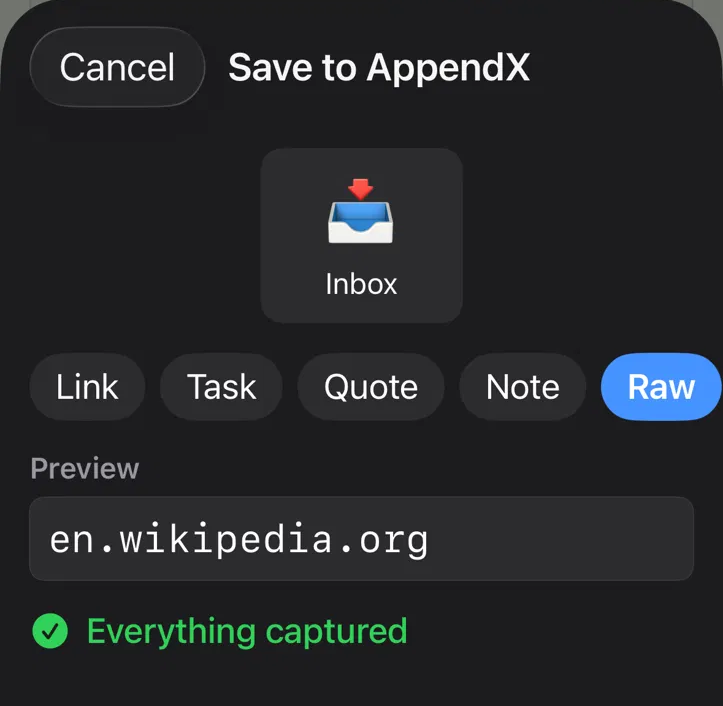
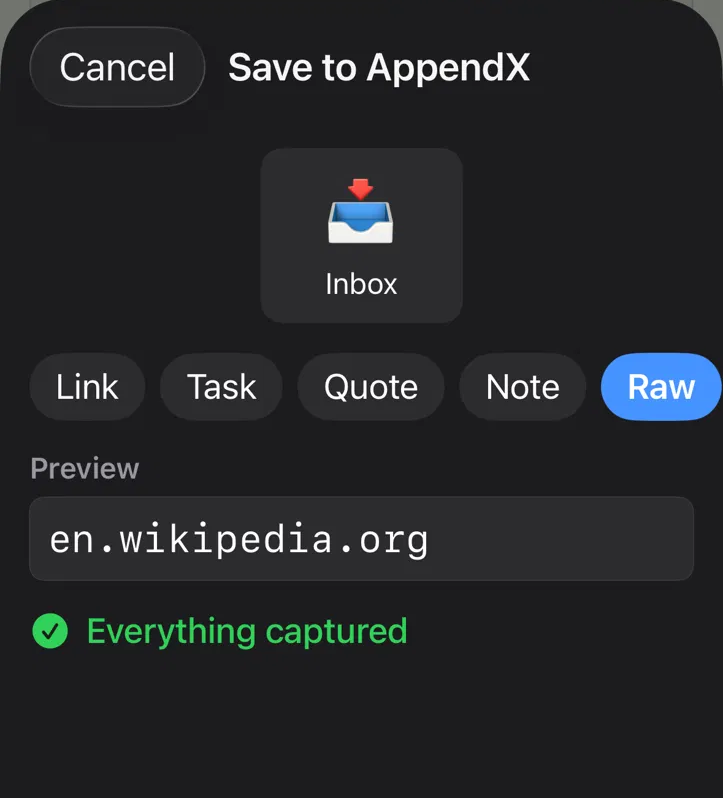
adding caption support to galleries, fixing heights of screenshots

diff --git a/src/content/blog/making-appendx.md b/src/content/blog/making-appendx.md
@@ -2,7 +2,7 @@
 title: 'Making AppendX'
 description: 'Why and How I built my iOS App, AppendX'
 pubDate: '03 Aug 2026'
-draft: false
+draft: true
 heroImage: '/images/AppendX-sketch.jpg'
 heroAlt: 'My initial design sketch for the AppendX icon'
 ---
@@ -116,9 +116,9 @@ What they hand over instead is inconsistent in ways I wasn't prepared for. Shari
 
 ![A screenshot of the AppendX debug view](/images/making-appendx-ss3.png 'AppendX debug view showing various Attachment payloads')
 
-I already had a debug view — an `#if DEBUG` screen I'd been using since early on to see what came through the share extension. That's how I collected the corpus in the first place: long-press the sheet, dump everything, copy it out, move to the next app.
+I already had a debug view — an `#if DEBUG` screen I'd been using since early on to see what came through the share extension. That's how I collected the corpus in the first place: long-press the sheet, dump everything, copy it out, move to the next app. Fifteen of them.
 
-That corpus became the normalization layer: a short pipeline that promotes a URL out of a text field when an app puts it in the wrong place, decodes the Apple News parameter, strips tracking junk, and generally tries to turn "whatever this app felt like sending" into "the thing the user meant to save." It also became a regression suite. Every time I changed the extraction logic, I re-ran all twenty-five and diffed the results.
+That corpus became the normalization layer: a short pipeline that promotes a URL out of a text field when an app puts it in the wrong place, decodes the Apple News parameter, strips tracking junk, and generally tries to turn "whatever this app felt like sending" into "the thing the user meant to save." It also became a regression suite. Every time I changed the extraction logic, I re-ran all fifteen and diffed the results.
 
 ### The Finding That Was My Own Bug
 
@@ -128,13 +128,13 @@ And in the course of writing it — re-testing to verify my claims — I found t
 
 I'd written up that a dozen apps were sending their own hostname where a page title belongs. Wikipedia handing me en.wikipedia.org. Bluesky handing me bsky.app. It was a good finding. It was also entirely my fault: when an app sent no title at all, my own normalization was filling the gap with the URL's hostname. The apps weren't sending junk. They were sending nothing, and I was manufacturing the junk myself.
 
-The problem was that the debug view showed me my own parsed output and presented it as though it were what the app had sent. There was no line between "iOS handed me this" and "my code decided this." Twenty-five captures, all filtered through a lens I couldn't see. The fix was to stop trusting my own output. I rebuilt the debug view to print two labeled sections — RAW, exactly what the app provided, and NORMALIZED, what my code did with it — and to print empty fields explicitly rather than omitting them. Absence is a finding. Omitting it is how I spent a week believing something that wasn't true.
+The problem was that the debug view showed me my own parsed output and presented it as though it were what the app had sent. There was no line between "iOS handed me this" and "my code decided this." Fifteen captures, all filtered through a lens I couldn't see. The fix was to stop trusting my own output. I rebuilt the debug view to print two labeled sections — RAW, exactly what the app provided, and NORMALIZED, what my code did with it — and to print empty fields explicitly rather than omitting them. Absence is a finding. Omitting it is how I spent a week believing something that wasn't true.
 
 ![A screenshot of the AppendX debug view](/images/making-appendx-ss2.png 'AppendX debug view showing nil title')
 
 Re-running the corpus against the new dump turned up four more bugs. Some were my assumptions. A couple were places where Claude Code had confidently traced the Apple News parsing logic and gotten it wrong — twice, with the same case, which is its own lesson: the trace is not the verification. It also disproved two of my seven normalization rules, which I deleted. The pipeline that shipped has five steps.
 
-You can read the whole expedition in [What iOS Shares](/blog/what-ios-shares).
+You can read the whole sharing expedition in [What iOS Shares](/blog/what-ios-shares).
 
 ### The UI That Lied
 
@@ -149,7 +149,7 @@ Then I shared a Wikipedia article to a target using the raw format and watched i
 ![A screenshot of the AppendX share sheet](/images/making-appendx-ss5.png 'AppendX telling you that some data will be lost.')
 :::
 
-The logic was reasonable and wrong. It checked whether the template's tokens had values — not whether all the data I'd received actually made it into the output. So a template that didn't reference the URL at all reported success, because nothing it asked for was missing. It was answering the wrong question with total confidence.
+The logic was reasonable, but wrong. It checked whether the template's tokens had values — not whether all the data I'd received actually made it into the output. So a template that didn't reference the URL at all reported success, because nothing it asked for was missing. It was answering the wrong question with total confidence.
 
 For an app whose entire pitch is "never lose data," a UI that lies about losing data is worse than one that crashes. A crash you notice.
 
@@ -163,14 +163,14 @@ There's a pattern here I keep running into. The debug view told me what it thoug
 
 Initially, I designed several different means of output in your markdown files: link, task, quote, note, and raw. Further, each of these types could be customized by the user.
 
-Then, through using this on my phone every day, I realized that the shape of what is being captured was much simpler: a _list_, or a _block_. Then further, for a List you may want a checkbox, or a date. For a block, you might want separators between, and a date.
+Then, through using this on my phone every day, I realized that the shape of what is being captured was much simpler: a _list_, or a _block_. Then further, for a _list_ you may want a checkbox, or a date. For a _block,_ you might want separators between, and a date.
 
 :::gallery
 ![A screenshot of the AppendX configuration UI](/images/making-appendx-ss6.png 'Configuration options for a List-type capture')
 ![A screenshot of the AppendX configuration UI](/images/making-appendx-ss7.png 'Configuration options for a Block-type capture')
 :::
 
-These simplified options actually retained most of the power that was available initially, but they broke down the decision making into steps. The user wasn't left staring at a list of tokens to insert into a template, they are making a series of simplified decisions. I don't think I could have arrived at this vision without having used the app and iterated upon my initial idea. (side note: this is why you shouldn't rush the 'beta' period!)
+These simplified options actually retained most of the power that was available initially, but they broke down the decision making into steps. The user wasn't left staring at a list of tokens to insert into a template, they are making a series of simplified decisions. I don't think I could have arrived at this vision without having used the app and iterated upon my initial idea.
 
 #### Helping With Emojis
 
@@ -221,7 +221,7 @@ within a few hours.
 
 ![A screenshot of the AppendX project in Xcode](/images/making-appendx-ss8.png 'AppendX project in Xcode, Distribution view')
 
-App Store Connect is a gauntlet. I had anticipated that there would be more paperwork since my app has a modest, yet non-essential In-App-Purchase "tip-jar" built into it. (Luckily I had already created a business entity with the IRS years back when I was a freelancer.) But the parts that caught me off-guard were procedural things that were hidden all over throughout the interface:
+App Store Connect is a gauntlet. I had anticipated that there would be more paperwork since my app has a modest, yet non-essential In-App-Purchase "tip-jar" built into it. (Luckily I had already created a business entity with the IRS years back when I was a freelancer.) But the parts that caught me off-guard were procedural things that were hidden all over throughout the website:
 
 - age ratings
 - countries of distribution
@@ -234,7 +234,7 @@ That last one really got me. In addition to the screenshots you provide as part 
 
 ### The Icon
 
-:::gallery
+:::gallery[The four native iOS icon modes: Default, Dark, Clear Light, Clear Dark.]
 ![AppendX icon, default](/images/AppendX-iOS-Default-512x512@1x.png)
 ![AppendX icon, dark](/images/AppendX-iOS-Dark-512x512@1x.png)
 ![AppendX icon, clear light](/images/AppendX-iOS-ClearLight-512x512@1x.png)
@@ -251,16 +251,10 @@ If it wasn't obvious already - the X is a variable. The idea of making it only a
 
 Later, when I added the direct input method to the app, I was glad I hadn't chosen 'ShareX.' And when searching for a domain name, finding AppendX.to was perfect. Append _X_ to... anything!
 
-### This Thing Exists Now, and It's Fine
+### What It's Like Now
 
-Having AppendX on my devices feels second-nature to me now. I wasn't expecting it to be exciting, I don't anticipate winning any design awards. It just becomes a predictable, easy part of a workflow. For the people who understand the problem it solves, it will probably be extremely useful. And it's free - because _I_ wanted this to exist, even if I was the only one able to use it. I added the tip-jar functionality on a lark, I'll declare success if someday it brings in enough revenue to offset the cost of my developer account and the domain name (.to is expensive!)
+Somebody in Slack mentions a band, tap tap 🎸, they're in my bands.md. I'm putting together a road trip and I can assemble details about destinations and restaurants in scratchpad.md ✏. When I think of it, I find the label and jot down the model number of my grill into my inbox 📥, and later I file that into my 'reference - house' document.
 
-And I'm different now - I'm familiar with Swift. I've gone through the App Store Connect paid apps gauntlet. If I have another idea for an app that would be useful, I can just make it. That feels pretty empowering. And I learned a lesson about
+Having AppendX on my devices is second-nature now. For anyone who has the same problem, it'll be useful. It's free, because I wanted it to exist even if I was the only one who used it. The tip jar was a lark — I'll declare success if it ever covers the developer account and the domain (.to is expensive!).
 
-Also - not to be overlooked, this App wouldn't exist, at least not in seven weeks, without the assistance of AI. I know there are a lot of people who deride the usage of AI tools due to their impact on environment and resources. I also know, there are people who believe we should use AI for everything, no matter that downsides.
-
-I hope, once again, that I've proven there is a middle-ground, where you can evaluate and choose to adopt new tools where appropriate, as long as you put yourself in a position to verify what they produce and take responsibility for the product.
-
-It's not a panacea - I've experienced and documented the errors that AI made. But as a human programmer, I've made just as many on this project (and far more in my lifetime).
-
-So - I hope you enjoyed my journey of creating AppendX, and if it suits your needs - I also hope you enjoy AppendX. It will always be available, fully-functional and free.
+It's not a triumph, it's just a tool. And that's okay.
